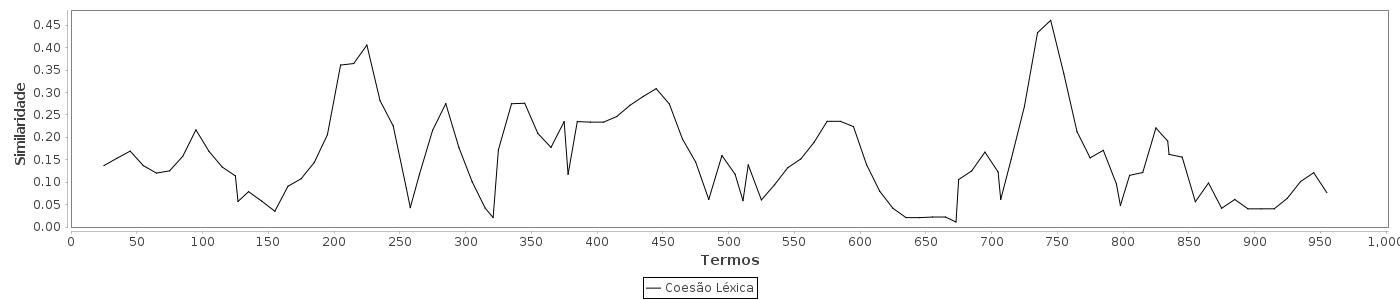
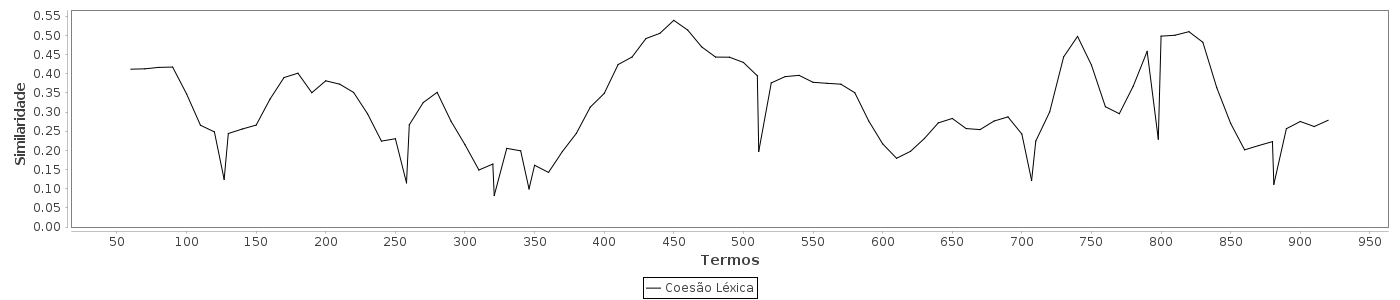
update

diff --git a/Dissertação/tex/conteudo/capitulos/4-cap3.tex b/Dissertação/tex/conteudo/capitulos/4-cap3.tex
@@ -134,7 +134,7 @@ Entre os principais trabalhos da literatura podemos citar o \textit{TextTiling} 
  %  Critérios de avaliação
  Para que se possa avaliar um segmentador automático de textos é preciso uma referência, isto é, um texto com os limites entre os segmentos conhecidos. Essa referência, deve ser confiável, sendo uma segmentação legítima que é capaz de dividir o texto em porções relativamente independentes, ou seja, uma segmentação ideal.
 % Como foram obtidas (software e especialistas) 
-A fim de obter um conjunto de documentos segmentados que possam servir como referência na avaliação, os documentos coletados foram segmentados manualmente por dois coordenadores de curso que participam de reuniões. Para isso, utilizou-se um \textit{software}, desenvolvido com esse objetivo especifico, que permitiu aos voluntários visualizar um documento, e indicar livremente as divisões entre segmentos. Com o uso desse \textit{software} foram coletados os dados de seis atas segmentadas por dois participantes das reuniões, os quais serviram como referência para a avaliação dos algoritmos. O \textit{software} desenvolvido para segmentação manual está disponível para utilização e consulta em~\urlsoftwares
+A fim de obter um conjunto de documentos segmentados que possam servir como referência na avaliação, os documentos coletados foram segmentados manualmente por dois coordenadores de curso que participam de reuniões. Para isso, utilizou-se um \textit{software}, desenvolvido com esse objetivo especifico, que permitiu aos voluntários visualizar um documento, e indicar livremente as divisões entre segmentos. Com o uso desse \textit{software} foram coletados os dados de seis atas segmentadas pelos participantes das reuniões, os quais serviram como referência para a avaliação dos algoritmos. O \textit{software} desenvolvido para segmentação manual está disponível para utilização e consulta em~\urlsoftwares	
 
 Os arquivos gerados foram tratados para que os segmentos sempre terminem em uma sentença reconhecida pelo algoritmo, uma vez que as sentenças são a unidade mínima de informação nesse trabalho.
 

diff --git a/Dissertação/tex/conteudo/capitulos/swaps/swap-proposta.tex b/Dissertação/tex/conteudo/capitulos/swaps/swap-proposta.tex
@@ -1,3 +1,16 @@
+Uma vez a coesão léxica é pressuposto de muitas abordagens em segmentação textual, fez-se uma análise desses documentos quanto a similaridade dos termos ao longo do texto. Verificou-se que a técnica de janelas deslizantes empregada pelo TextTiling encontra os vales que indicam transições entre segmentos, contudo ao comparar esses vales com a segmentação de referência, nota-se que a maioria dos limites coincide  ou estão próximos aos vales, porém há casos onde a referência indica limites em trechos com alta coesão léxica e outros onde a queda da coesão, indicada por vales, não coincide nenhum limite de referência. 
+
+O que sugere que  onde o
+
+os segmentos apresentados por esse algoritmo 
+
+
+
+
+
+
+
+
 
 
 A seguir...

diff --git a/codes/TextSegmentationBR/src/segmenters/tests/TesteCurvaSimilaridade3.java b/codes/TextSegmentationBR/src/segmenters/tests/TesteCurvaSimilaridade3.java
@@ -43,7 +43,7 @@ public class TesteCurvaSimilaridade3 {
 	private static void createFigure_CoesaoLexica(File file) {
 		TextTilingBR tt = new TextTilingBR();
 		
-//		tt.setWindowSize(50);
+		tt.setWindowSize(50);
 		tt.setStep(10);
 		
 		File textFile = file;
